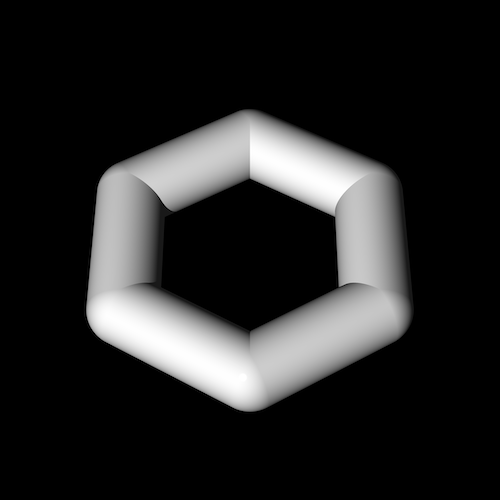
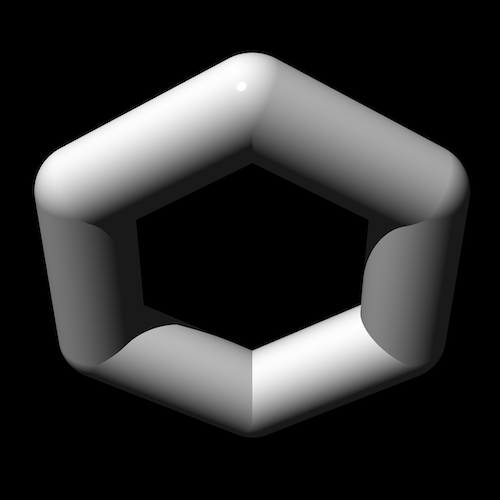
Update hexagon example

diff --git a/src/bin/hexagon.rs b/src/bin/hexagon.rs
@@ -14,7 +14,7 @@ fn hexagon_corner() -> GroupBuilder {
 }
 
 fn hexagon_edge() -> GroupBuilder {
-    let edge = Object::new_cylinder(0.0, 1.0, true)
+    let edge = Object::new_cylinder(0.0, 1.0, false)
         .scale(0.25, 1.0, 0.25)
         .rotate_z(-PI / 2.0)
         .rotate_y(-PI / 6.0)
@@ -39,7 +39,12 @@ fn hexagon() -> Object {
         sides.push(side);
     }
 
-    let hex_builder = GroupBuilder::Node(Object::new_dummy(), sides);
+    let hex_builder = GroupBuilder::Node(
+        Object::new_dummy()
+            .rotate_x(PI / 3.0)
+            .translate(0.0, 0.75, 0.0),
+        sides,
+    );
 
     Object::new_group(&hex_builder)
 }
@@ -52,13 +57,13 @@ fn main() {
         .with_objects(vec![hexagon])
         .with_lights(vec![light]);
 
-    let from = Point::new(0.0, 7.0, -5.0);
-    let to = Point::new(0.0, 0.0, 0.0);
-    let up = Vector::new(0.0, 1.0, 1.0);
+    let from = Point::new(0.0, 1.5, -5.0);
+    let to = Point::new(0.0, 1.0, 0.0);
+    let up = Vector::new(0.0, 1.0, 0.0);
 
     let width = 5000;
     let height = 5000;
-    let fov = 0.4;
+    let fov = PI / 3.0;
 
     let camera =
         Camera::new(width, height, fov).with_transformation(&view_transform(&from, &to, &up));
